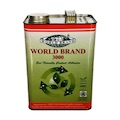
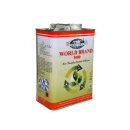
Add hi res images for some products

diff --git a/_includes/product_hero.html b/_includes/product_hero.html
@@ -1,6 +1,37 @@
 {% assign products = site.products %}
 {% assign prodId = page.url | split: "." | first %}
 {% assign product = products | where: "id", prodId | first %}
-<div class="jumbotron" id="products">
-  {% include product.html %}
+{% assign imageSource_2x = product.imageSource | replace: '.jpg', '@2x.jpg' %}
+<div class="jumbotron">
+  <div>
+  <img alt="{{ product.name }}" onerror="imageError(this)" src="{{ imageSource_2x }}" class="img-responsive center-block" />
+  </div>
+  <div>
+    <h2><a href="{{ product.id }}.html">{{ product.name }}</a></h2>
+    {% assign product_key = product.id | replace: "/", "_" | replace_first: "_", "" | append: "_description" %}
+    <p>{{ site.data.products[product_key] }}</p>
+
+    {% if product.availableIn %}
+    <p>{{ site.data.products.available_in }}: {{ product.availableIn }}</p>
+    {% endif %}
+    {% if product.available %}
+      <div class="order">
+      {% for item in product.available %}
+        <ul class="list-group">
+          <li class="list-group-item">
+            <span class="size">{{ item.size }}</span>
+            <span class="price">{{ item.price }}</span>
+            <a class="place-order btn btn-primary" href="https://docs.google.com/forms/d/e/1FAIpQLSfpeuPAQ3K4U7P4KogWGTDFGqAFsoFpoUicib0bRe1C_FPY6Q/viewform?usp=pp_url&entry.1000027={{ product.name }} {{ item.size }} @ {{ item.price}}&entry.1863605364=10" target="_order">Order</a>
+          </li>
+        </ul>
+      {% endfor %}
+      </div>
+    {% endif %}
+    {% if product.technicalSpecification %}
+      <a href="{{product.technicalSpecification}}" class="btn" target="_download"><ion-icon name="download-outline"></ion-icon> {{ site.data.products.technical_specification }}</a>
+    {% endif %}
+    {% if product.dataSheet %}
+    <a href="{{product.dataSheet}}" class="btn" target="_download"><ion-icon name="download-outline"></ion-icon> {{ site.data.products.msds }}</a>
+    {% endif %}
+  </div>
 </div>

diff --git a/_includes/sidebar.html b/_includes/sidebar.html
@@ -1,10 +1,3 @@
-<script>
-function imageError(source){
-  source.src = '/images/missing.jpg';
-  return true;
-}
-</script>
-
 <div class="col-lg-3 col-md-3 col-sm-3 hidden-xs hidden-sm" id="categories">
 	{% assign applications = '' | split: '' %}
 	{% assign certifications = '' | split: '' %}

diff --git a/js/app.js b/js/app.js
@@ -6,3 +6,10 @@ $(function() {
     });
   });
 })
+
+function imageError(source){
+  source.src = '/images/missing.jpg';
+  return true;
+}
+
+

diff --git a/_products/800.md b/_products/800.md
@@ -2,7 +2,7 @@
 layout: product
 name: 800 Adhesive
 imageSource: /images/5.jpg?1420046369
-availableIn: 3 kg / 15 kg / 160 kg
+availableIn: 3 kg / 14 kg / 160 kg
 applications: [Woodworking]
 surfaces: [Fibre Glass, Polyurethane Foam, Wood]
 dataSheet: /downloads/msds-wb800.pdf
